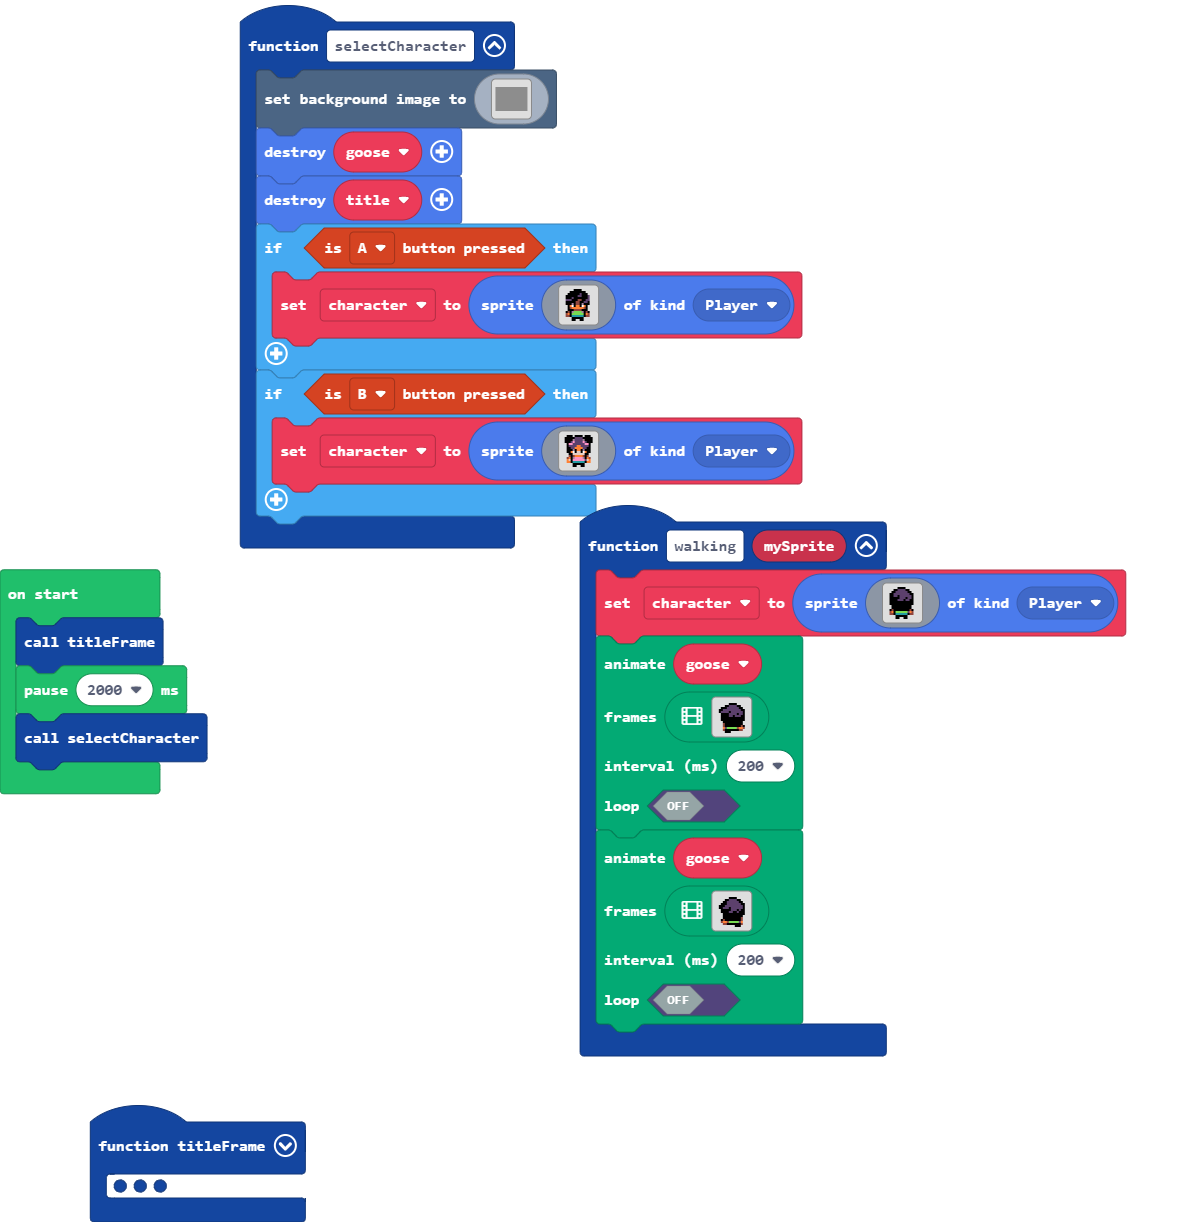
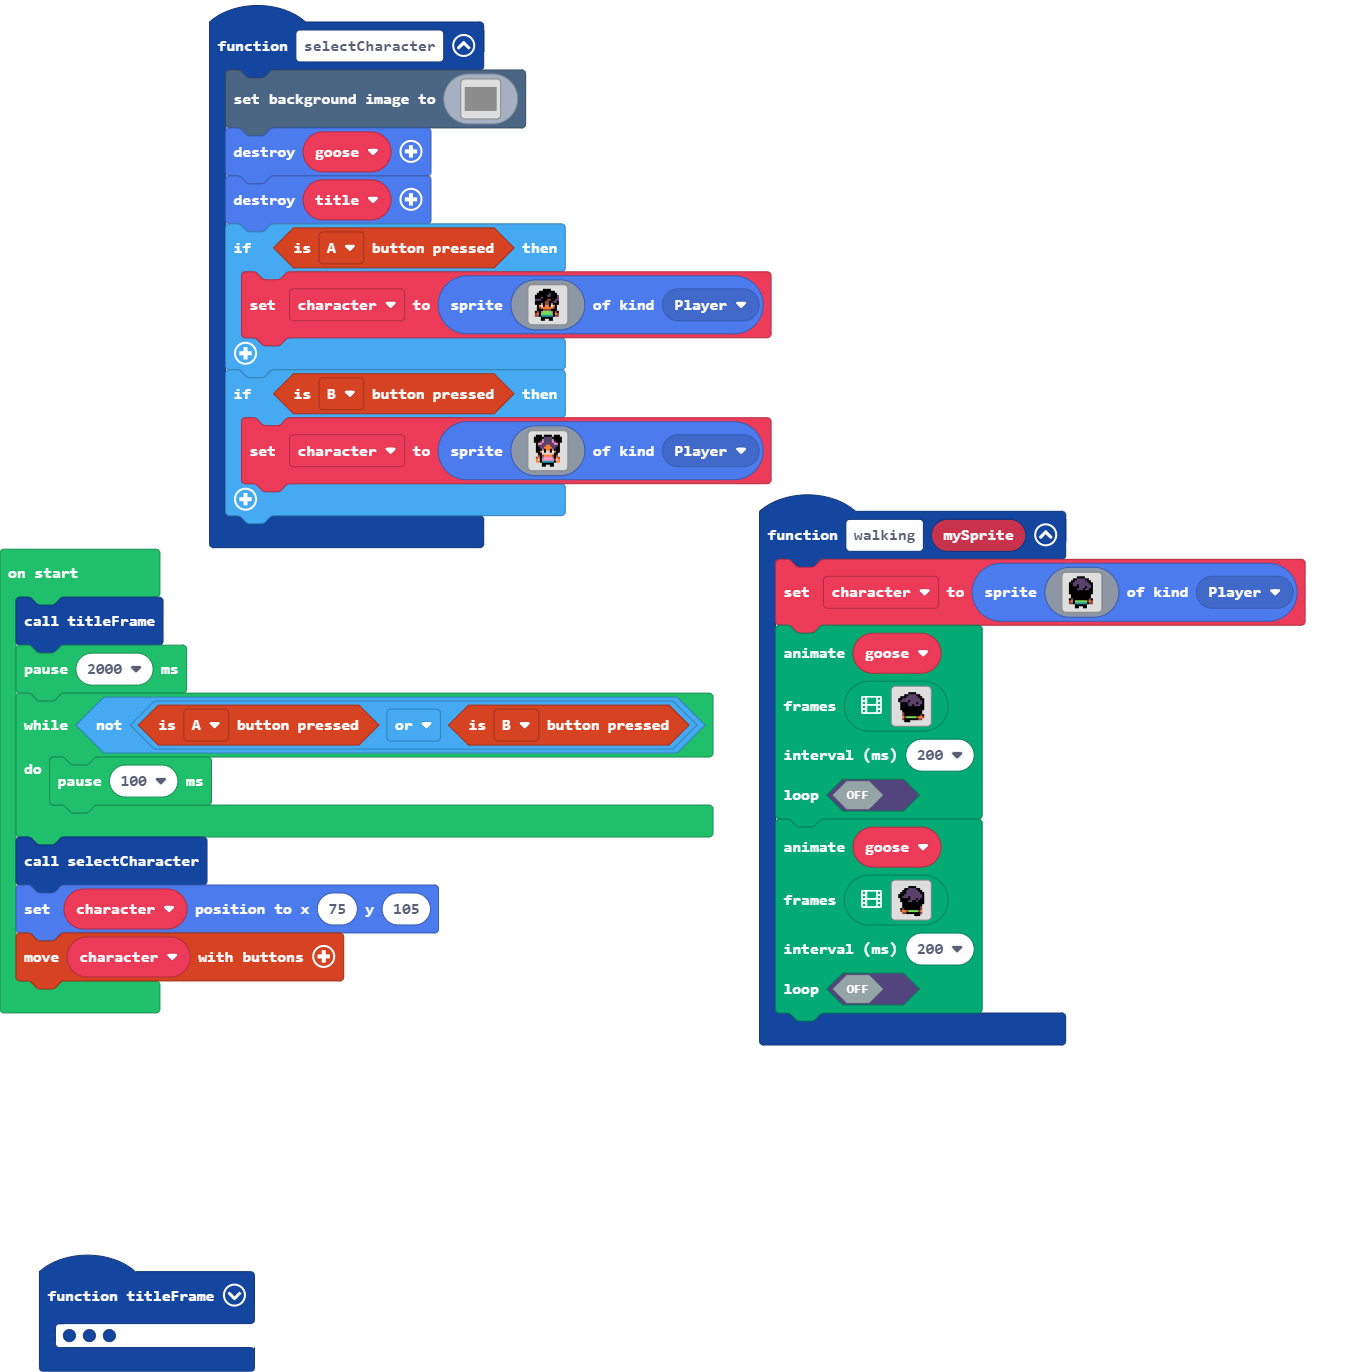
Update main.blocks, main.ts

diff --git a/main.ts b/main.ts
@@ -547,9 +547,14 @@ function titleFrame () {
     controller.startLightAnimation(light.rainbowAnimation, 500)
     music.baDing.play()
 }
-let character: Sprite = null
 let title: Sprite = null
 let goose: Sprite = null
+let character: Sprite = null
 titleFrame()
 pause(2000)
+while (!(controller.A.isPressed() || controller.B.isPressed())) {
+    pause(100)
+}
 selectCharacter()
+character.setPosition(75, 105)
+controller.moveSprite(character)
